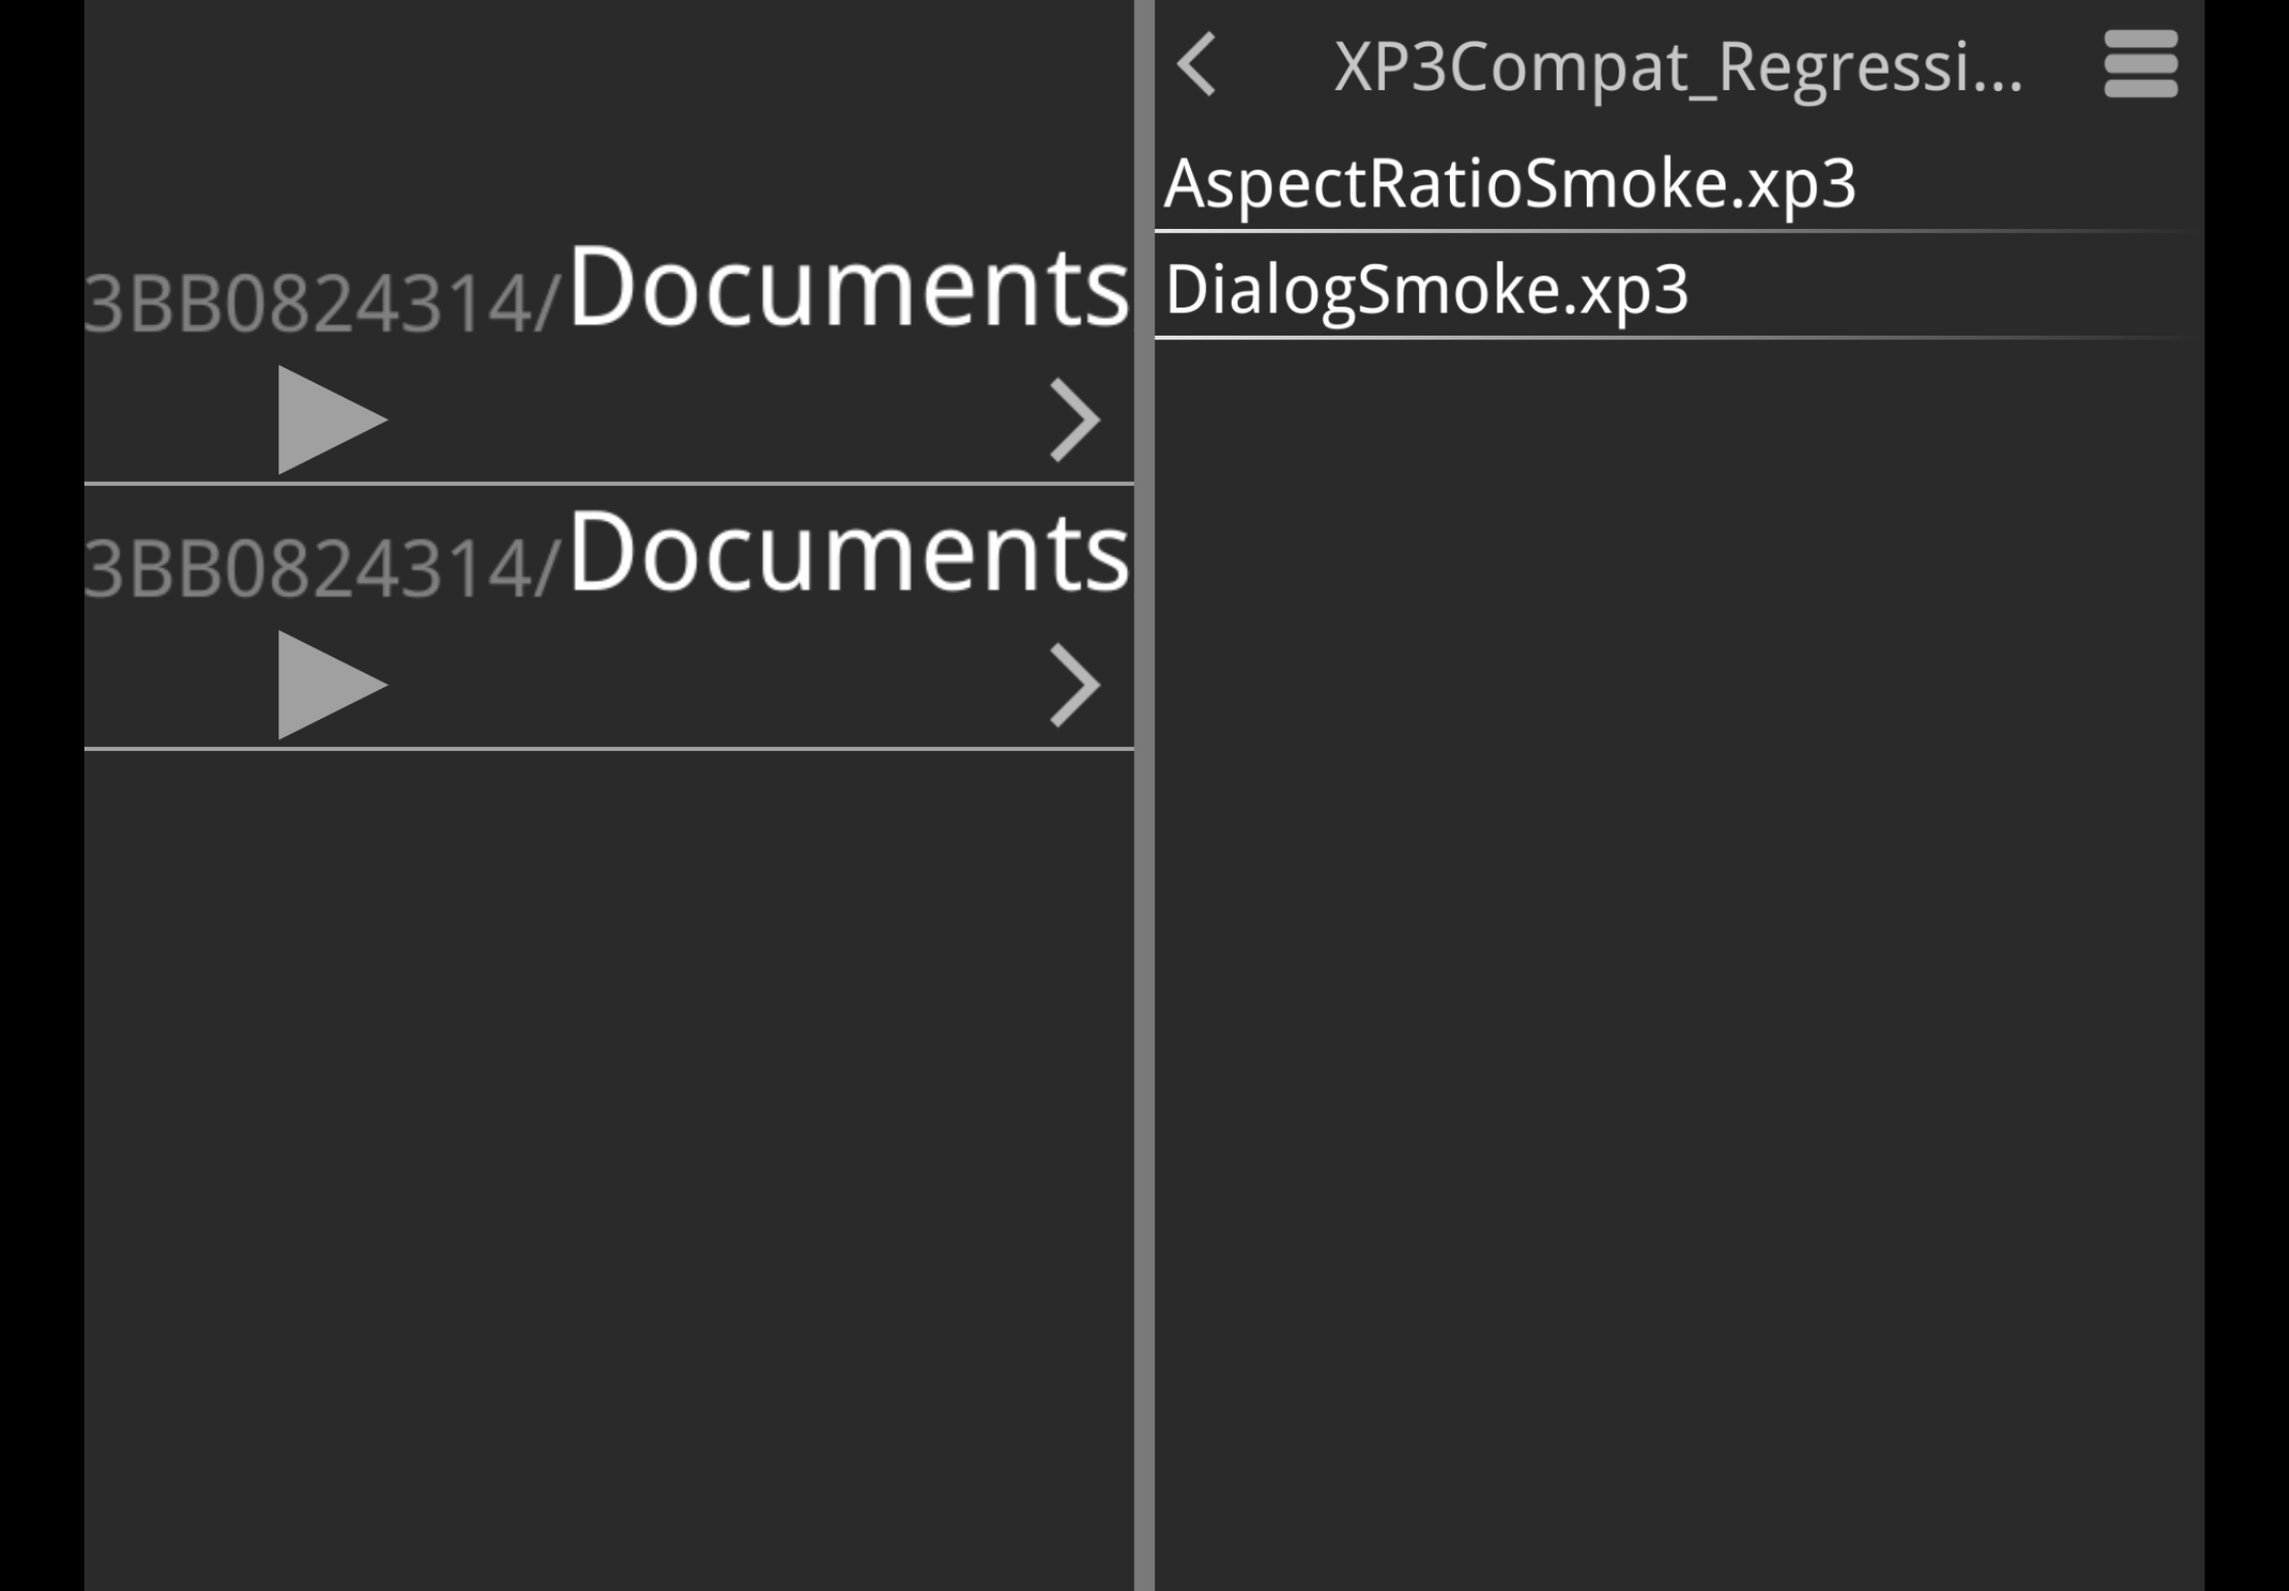
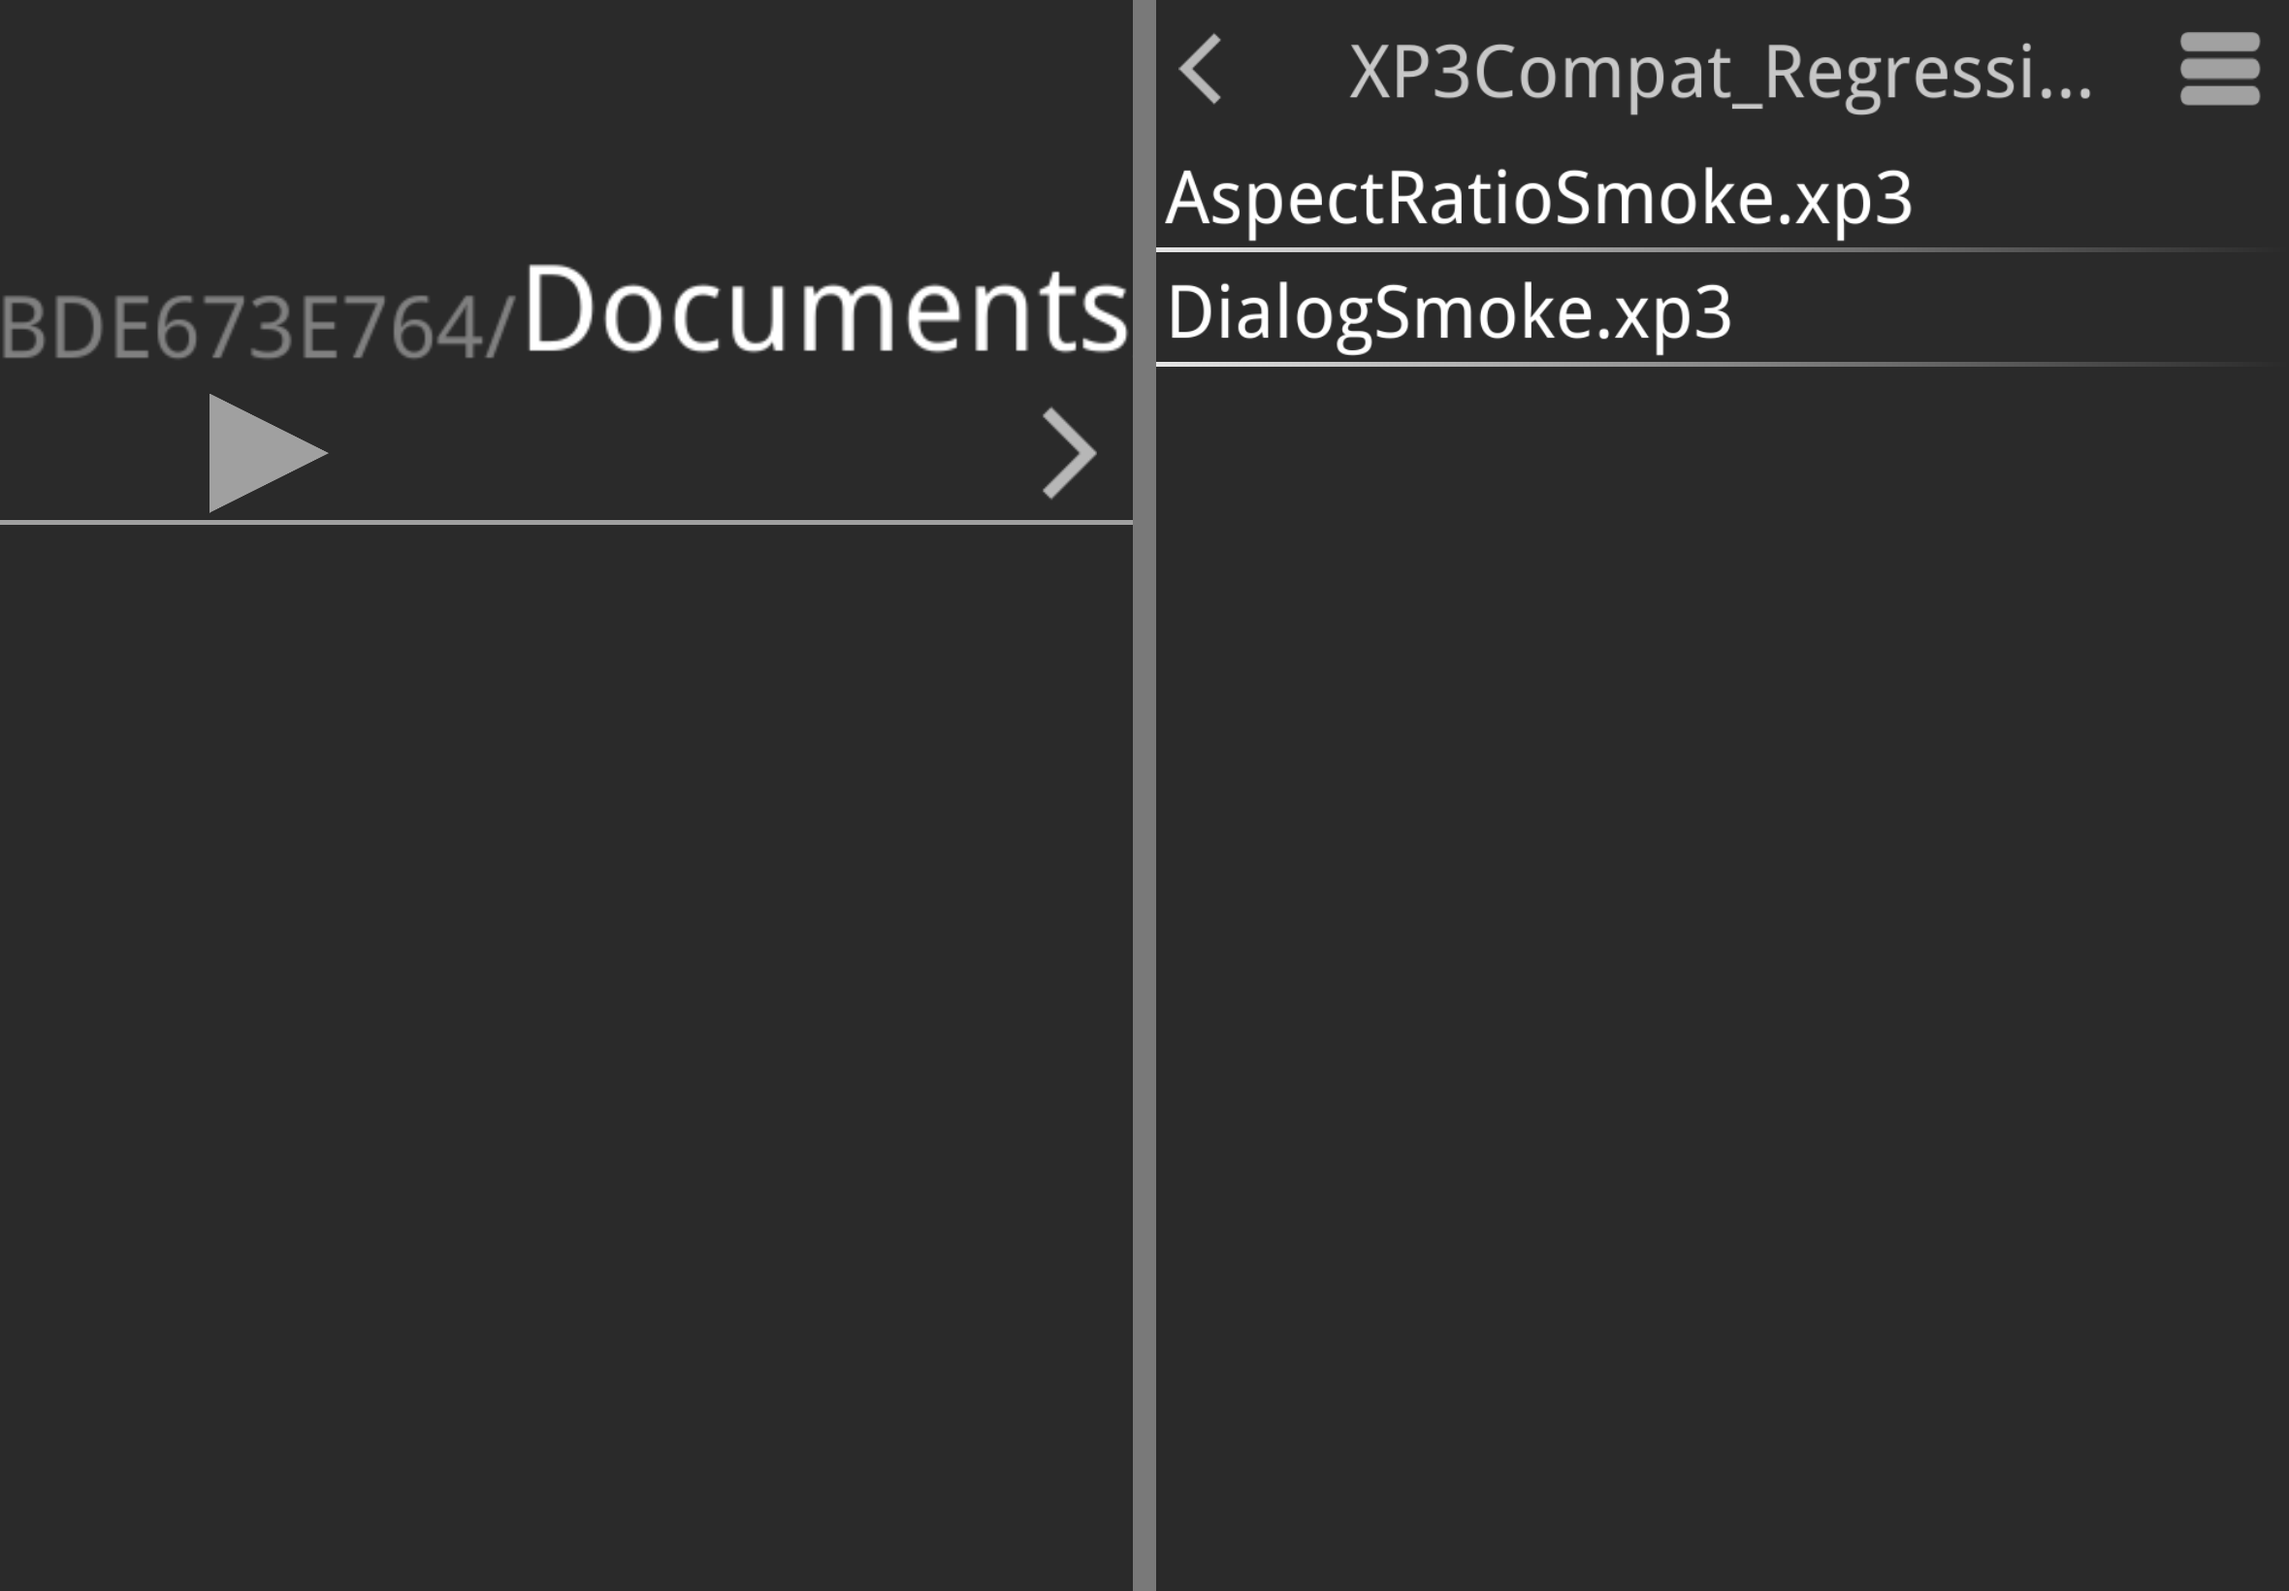
docs: refresh screenshots with full-screen iPad captures

diff --git a/docs/TECHNICAL.zh-CN.md b/docs/TECHNICAL.zh-CN.md
@@ -69,7 +69,7 @@ python3 tools/clone_ipa.py /tmp/XP3Player-injected.ipa /tmp/XP3Player-Fix.ipa
 
 iPadOS 真机验证覆盖文件夹输入、创建、删除确认取消，以及游戏消息、按钮选择和中文输入回传。连续弹窗和具体返回值通过带诊断信息的同源调度实现核验；正式无诊断重签包已复测文件夹输入取消与游戏弹窗。
 
-最新包已在 iPadOS 模拟器验证启动与横屏文件界面；其弹窗回归因自动点击工具故障尚未完成。实体 iPhone 的本次修复尚未验证。PlayCover 的原生弹窗路径有先前运行记录，最新包尚未重新进行界面测试。
+最新包已在 iPadOS 模拟器验证启动、横屏文件界面、Info／Warning 弹窗、按钮选择和文字输入回传。实体 iPhone 的本次修复尚未验证。PlayCover 的原生弹窗路径有先前运行记录，最新包尚未重新进行界面测试。
 
 自动测试使用真实 Foundation、模拟 UIKit 和公开 RunLoop，覆盖弹窗返回语义、触摸快照与手势身份、嵌套等待时的队列顺序、帧合并和暂停失效，以及 IPA 注入与打包完整性。
 
